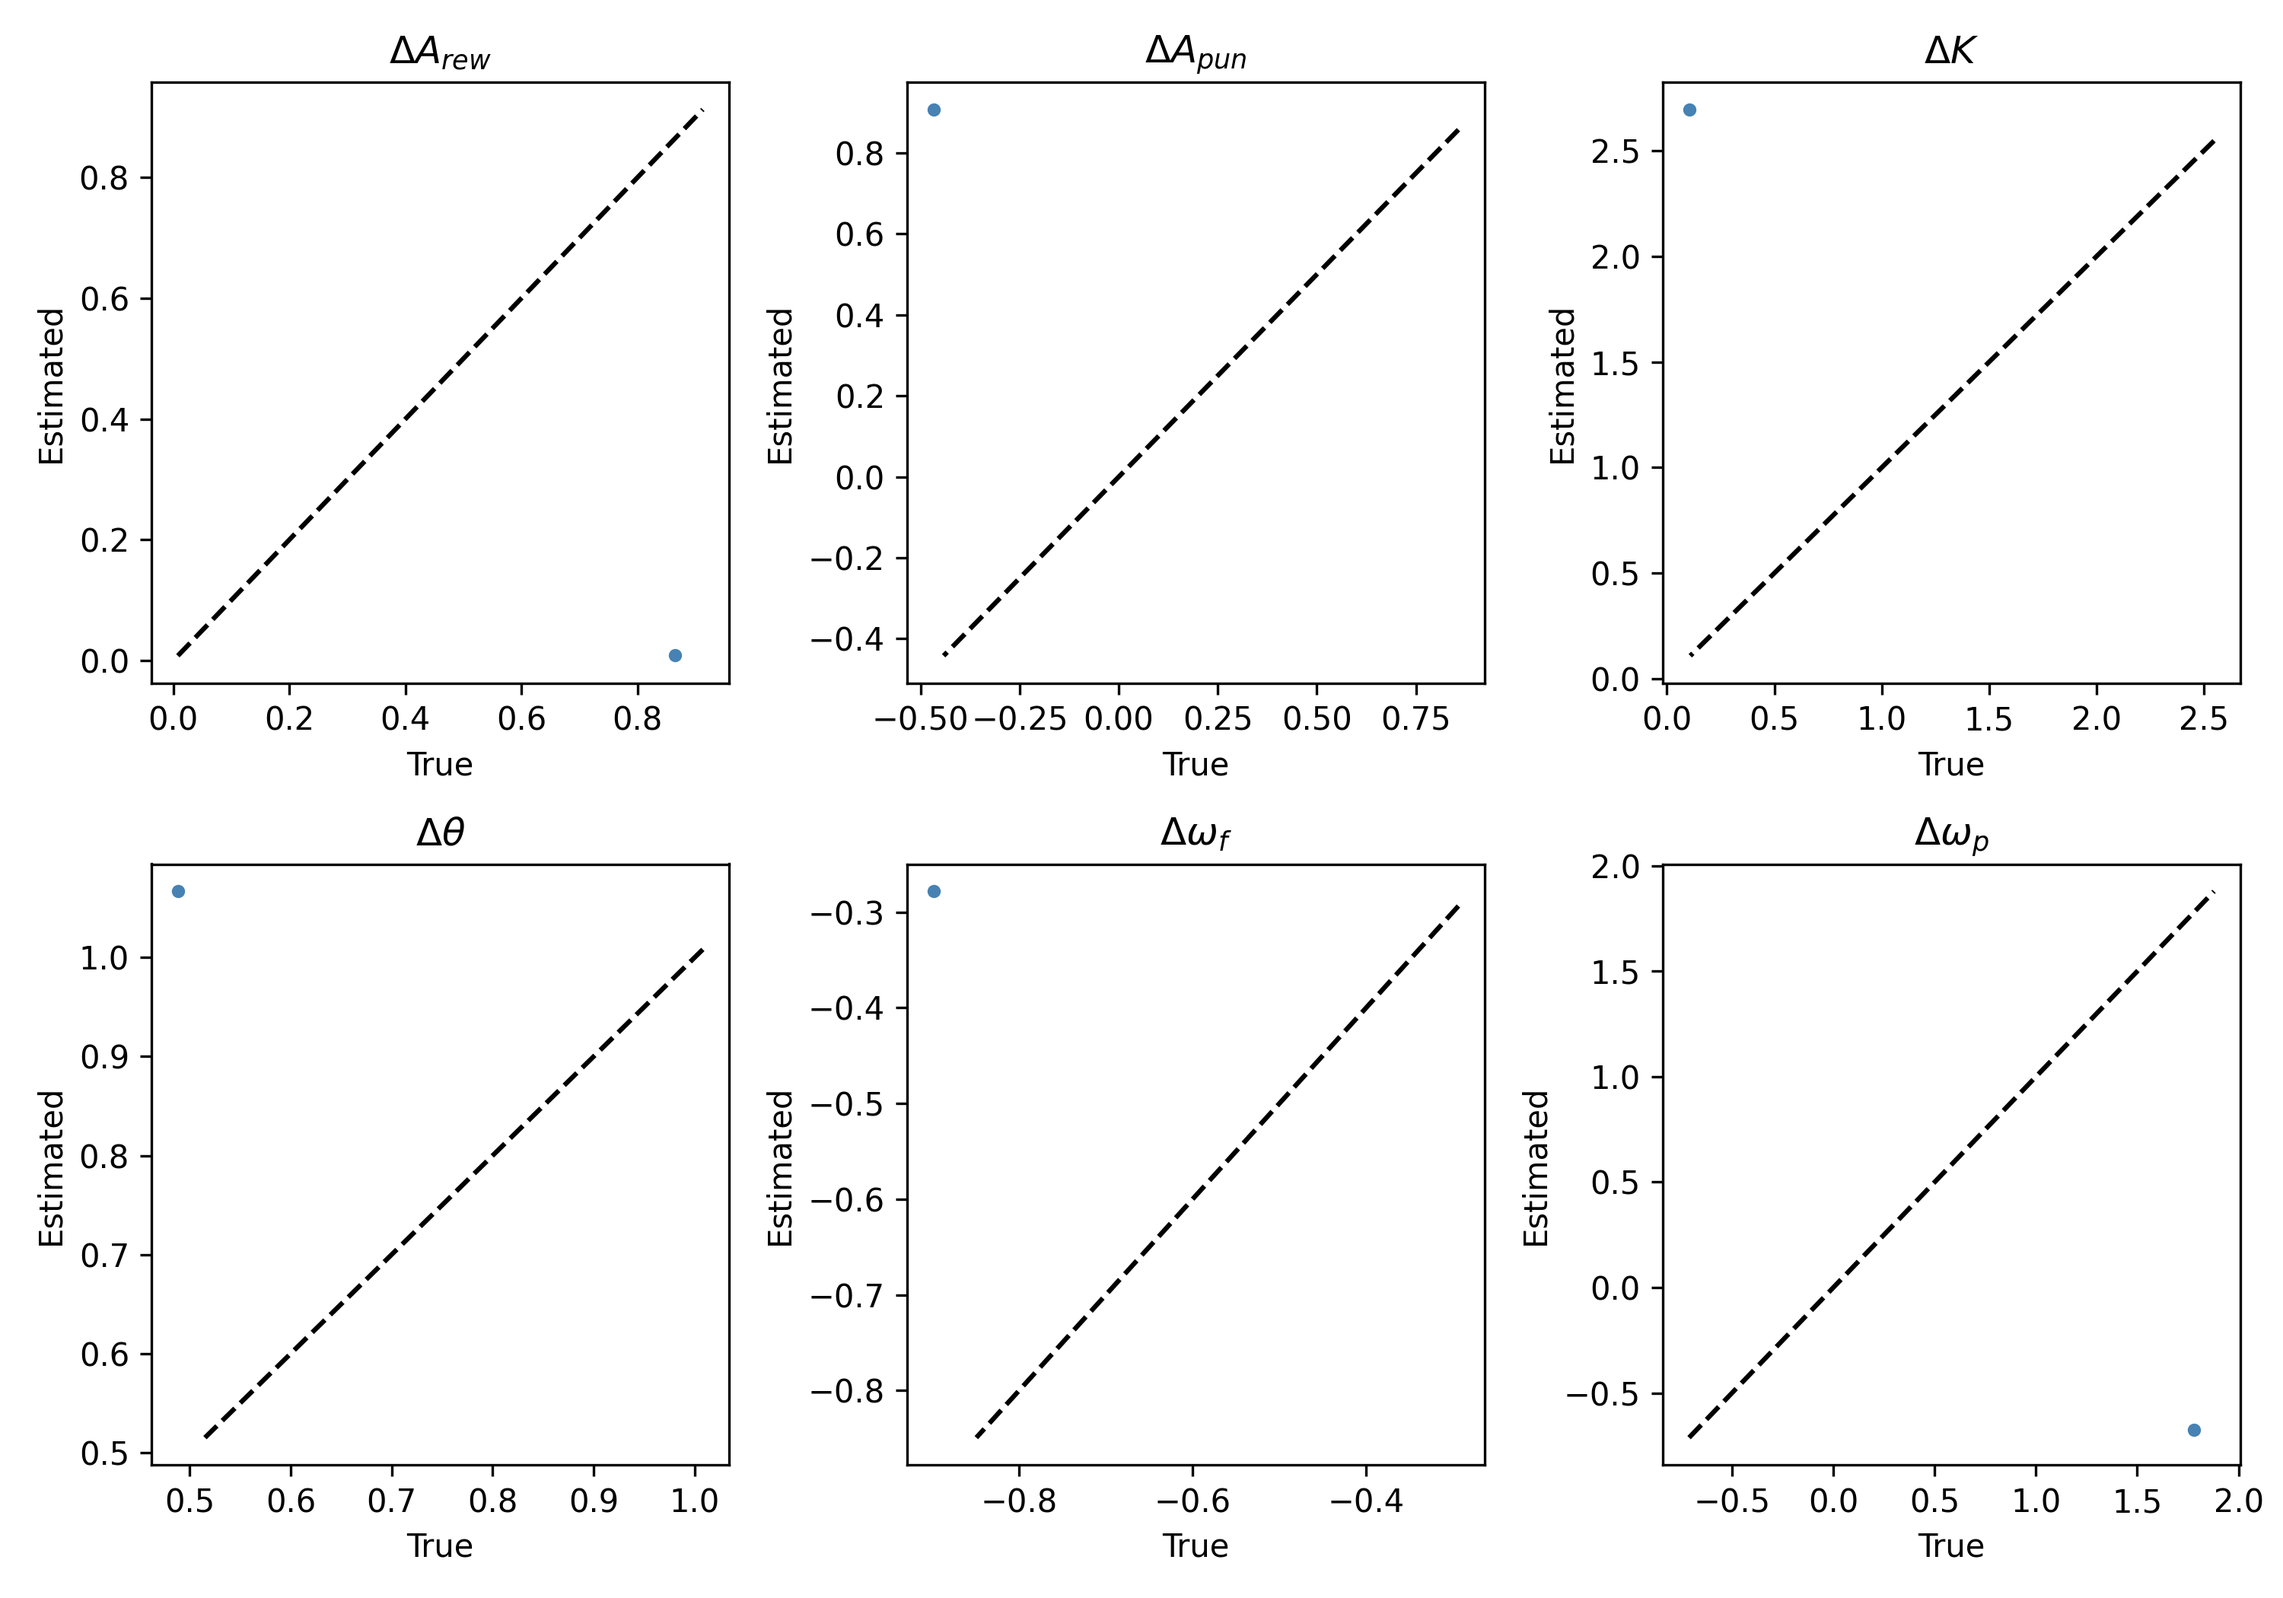
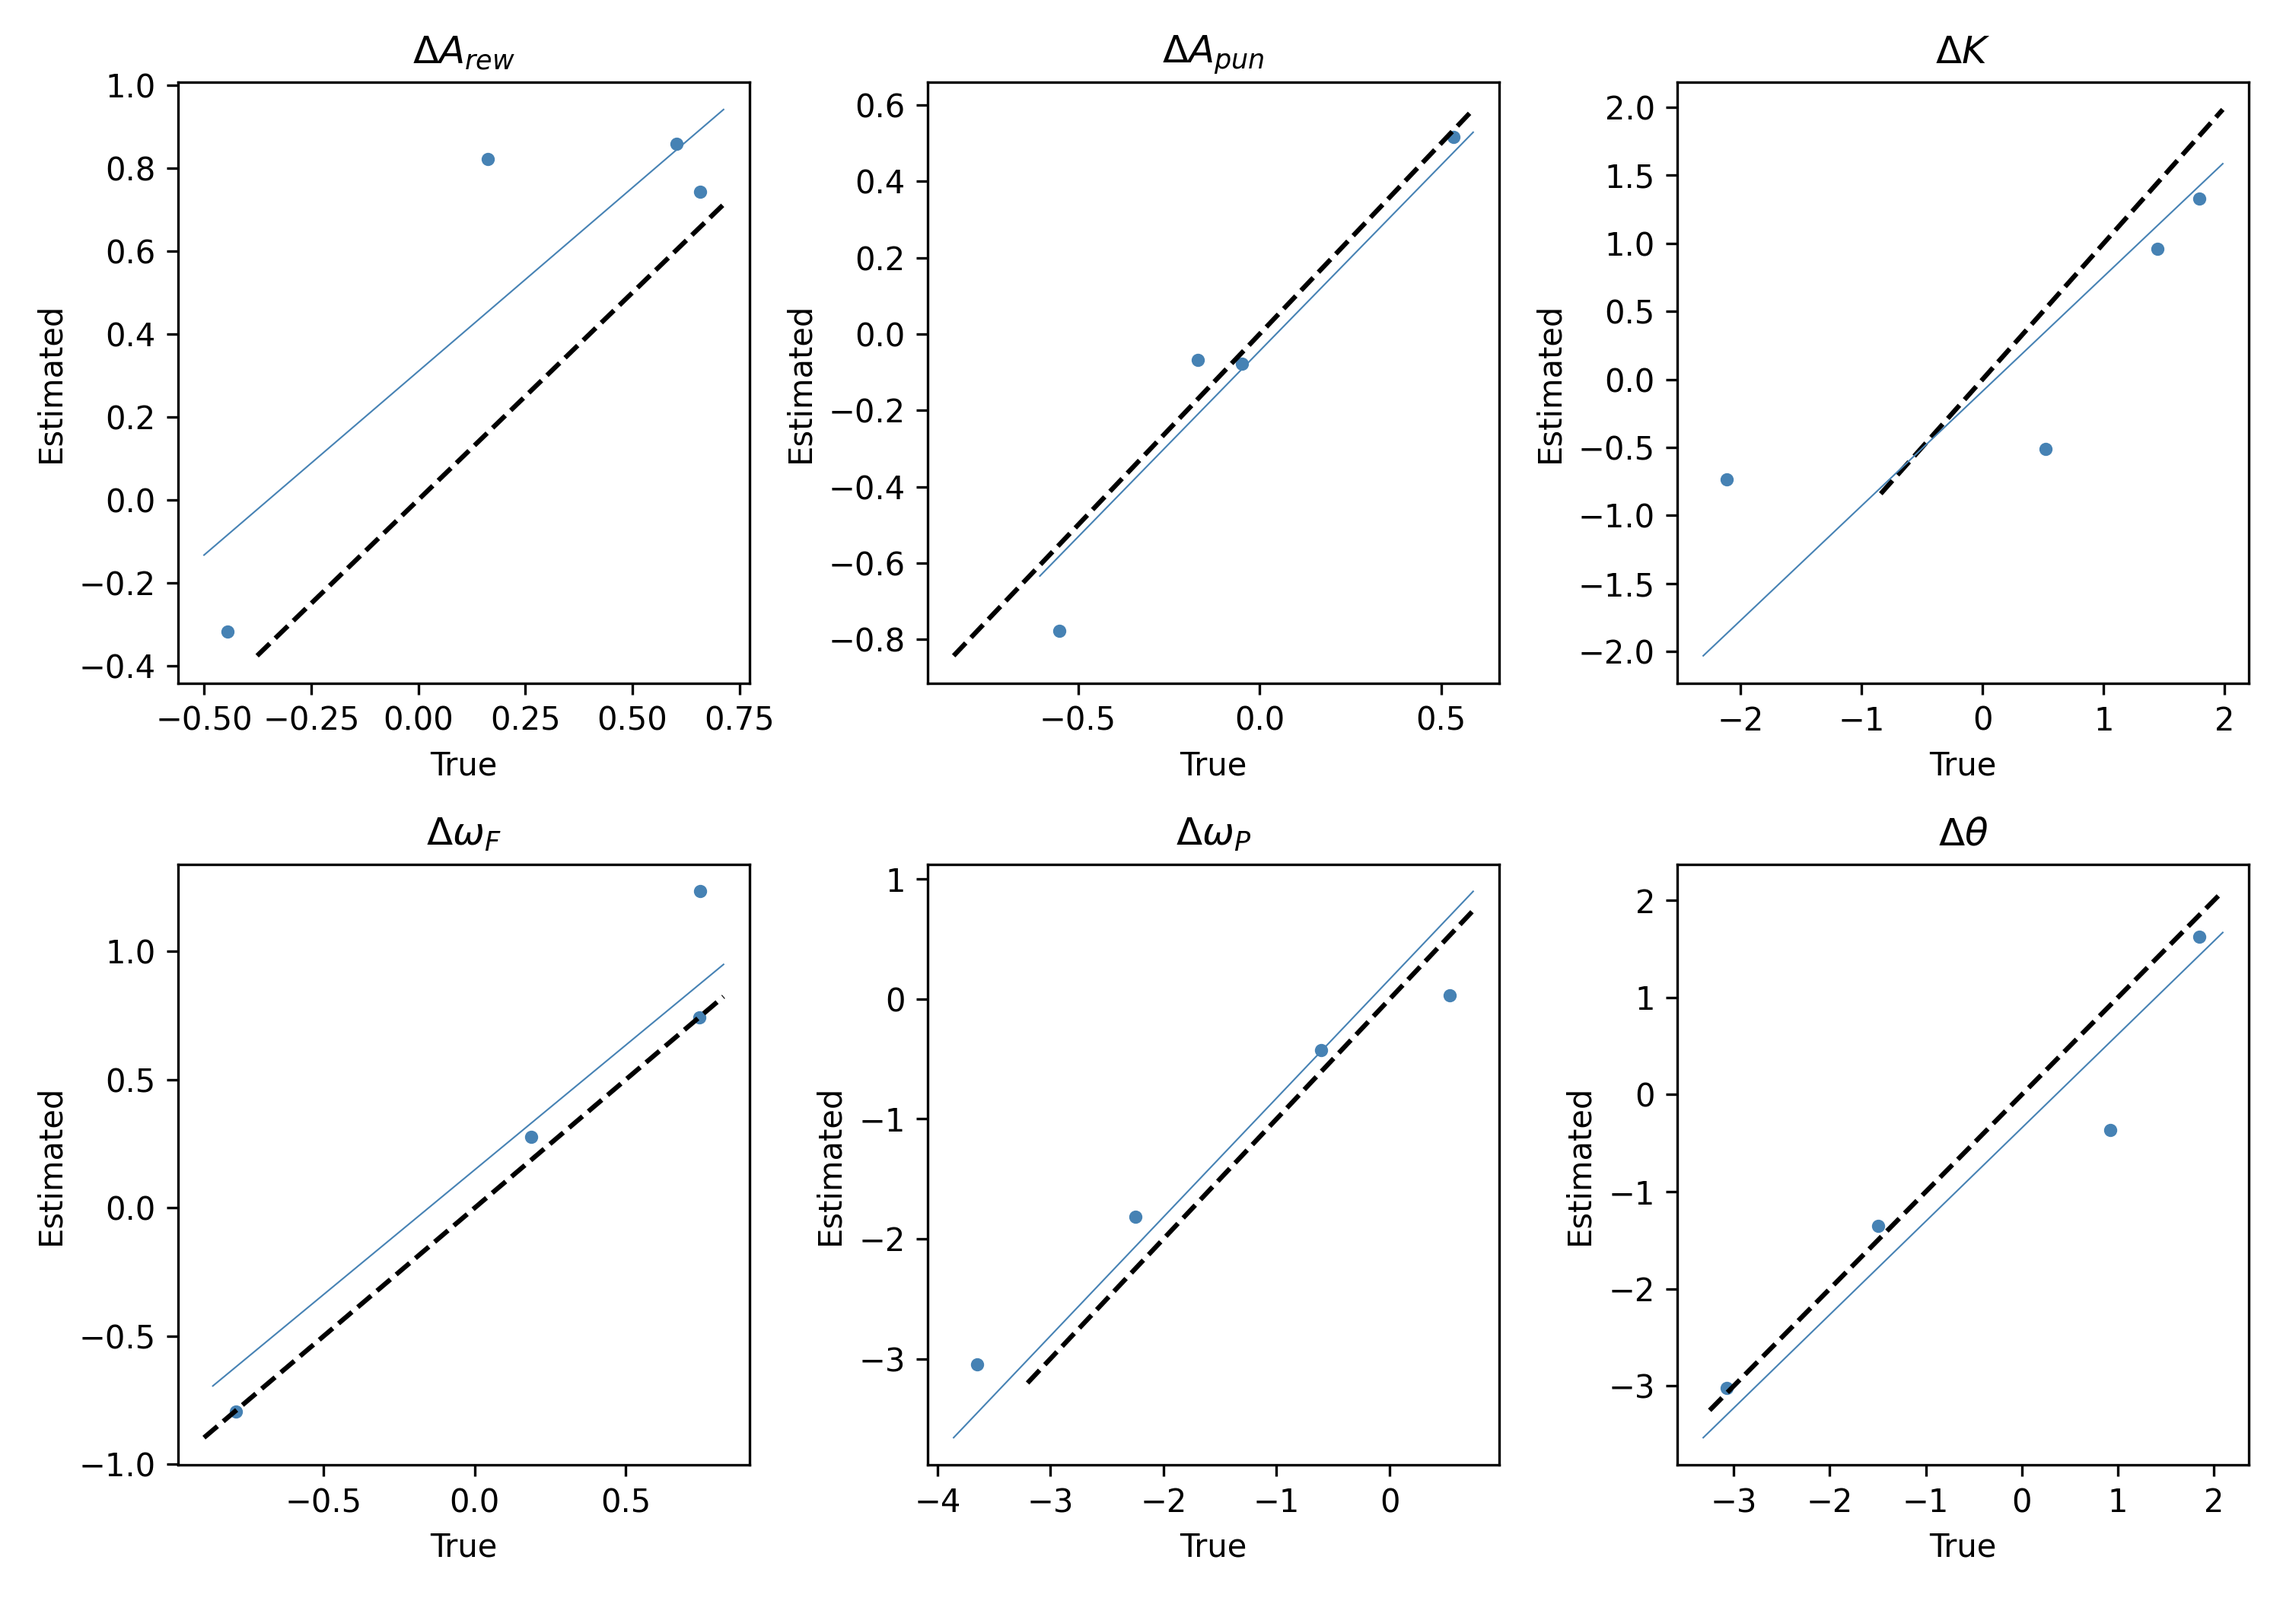
update group-lvl recovery plots

diff --git a/recovery/plot_group_lvl.py b/recovery/plot_group_lvl.py
@@ -69,27 +69,19 @@ def get_true_recovered(parameters_t : list, parameters_r : list, data_sim : dict
     t = {param: [] for param in parameters_t} # true differences
     r = {param: [] for param in parameters_r} # recovered differences
     
-    print(f"keys: {data_rec.keys()}")
     for key in data_rec.keys():
         group_1, group_2 = data_rec[key]["group1"], data_rec[key]["group2"]
 
         # true group differences
         for param in parameters_t:
-            t[param].append(data_sim[group_1][param] - data_sim[group_2][param]) # figure out which of these is the correct one!
-            #t[param].append(data_sim[group_2][param] - data_sim[group_1][param]) # figure out which of these is the correct one!
-            print((f"param: {param}"))
-            print(f"group 1: {data_sim[group_1][param]}")
-            print(f"group 2: {data_sim[group_2][param]}")
+            #t[param].append(data_sim[group_1][param] - data_sim[group_2][param]) # figure out which of these is the correct one!
+            t[param].append(data_sim[group_2][param] - data_sim[group_1][param]) # figure out which of these is the correct one!
 
-        print("--------------------------")
-        # recovered group differences
-        
         for param_r in parameters_r:
             tmp_data = data_rec[key][param_r] # getting the parameter samples
 
             # check if nan, then print
             r[param_r].append(tmp_data.mean())
-            print(f"mean of {param_r}: {tmp_data.mean()}")
 
 
     return t, r
@@ -117,14 +109,6 @@ if __name__ == "__main__":
 
     posteriors = [data_rec[keys]["delta_a_rew"], data_rec[keys]["delta_a_pun"], data_rec[keys]["delta_K"], data_rec[keys]["delta_theta"], data_rec[keys]["delta_omega_f"], data_rec[keys]["delta_omega_p"]]
 
-
-    plot_posteriors_violin(
-        posteriors = posteriors,
-        parameter_names = ["$\Delta A_{rew}$", "$\Delta A_{pun}$", "$\Delta  K$", "$\Delta \\theta$", "$\Delta  \omega_f$", "$\Delta  \omega_p$"],
-        trues = None, 
-        savepath = fig_path / "hierachical_posteriors_violin_ORL.png"
-    )
-
     # Initialize lists for true and recovered parameters
     parameters_t = ["mu_a_rew", "mu_a_pun", "mu_K", "mu_theta", "mu_omega_f", "mu_omega_p"]
     parameters_r = ["delta_a_rew", "delta_a_pun", "delta_K", "delta_theta", "delta_omega_f", "delta_omega_p"]
@@ -139,8 +123,8 @@ if __name__ == "__main__":
 
     # plot the recovery of the parameters
     plot_recoveries(
-        trues = [a_rew_t, a_pun_t, K_t, theta_t, omega_f_t, omega_p_t],
-        estimateds = [a_rew_r, a_pun_r, K_r, theta_r, omega_f_r, omega_p_r],
-        parameter_names = ["$\Delta A_{rew}$", "$\Delta A_{pun}$", "$\Delta  K$", "$\Delta \\theta$", "$\Delta  \omega_f$", "$\Delta  \omega_p$"],
+        trues = [a_rew_t, a_pun_t, K_t, omega_f_t, omega_p_t, theta_t,],
+        estimateds = [a_rew_r, a_pun_r, K_r, omega_f_r, omega_p_r, theta_r],
+        parameter_names = ["$\Delta A_{rew}$", "$\Delta A_{pun}$", "$\Delta  K$", "$\Delta  \omega_F$", "$\Delta  \omega_P$", "$\Delta \\theta$", ],
         savepath = fig_path / "hierachical_parameter_recovery_ORL.png"
     )
